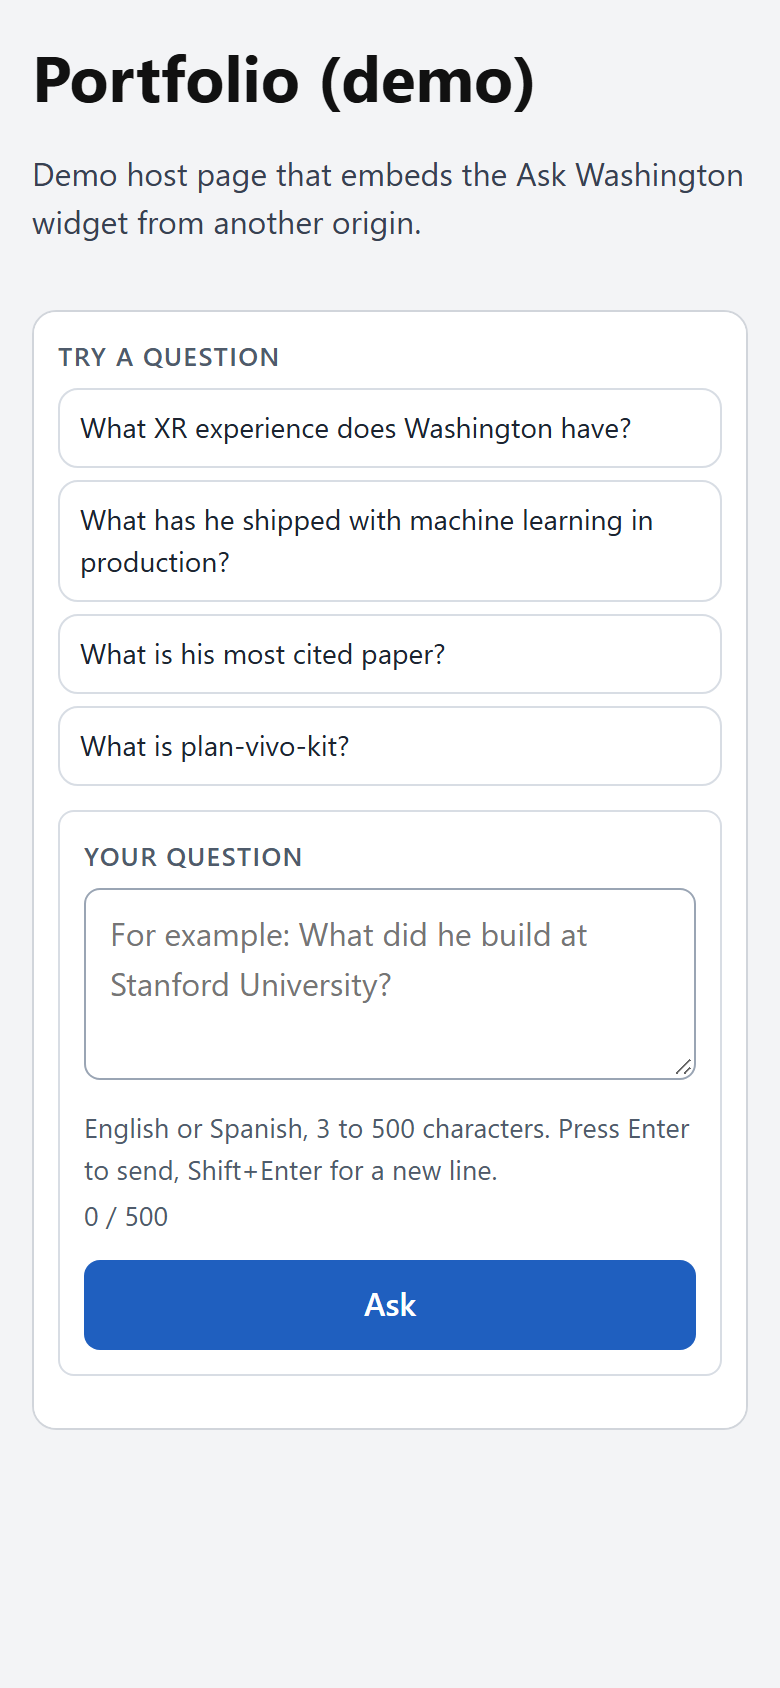
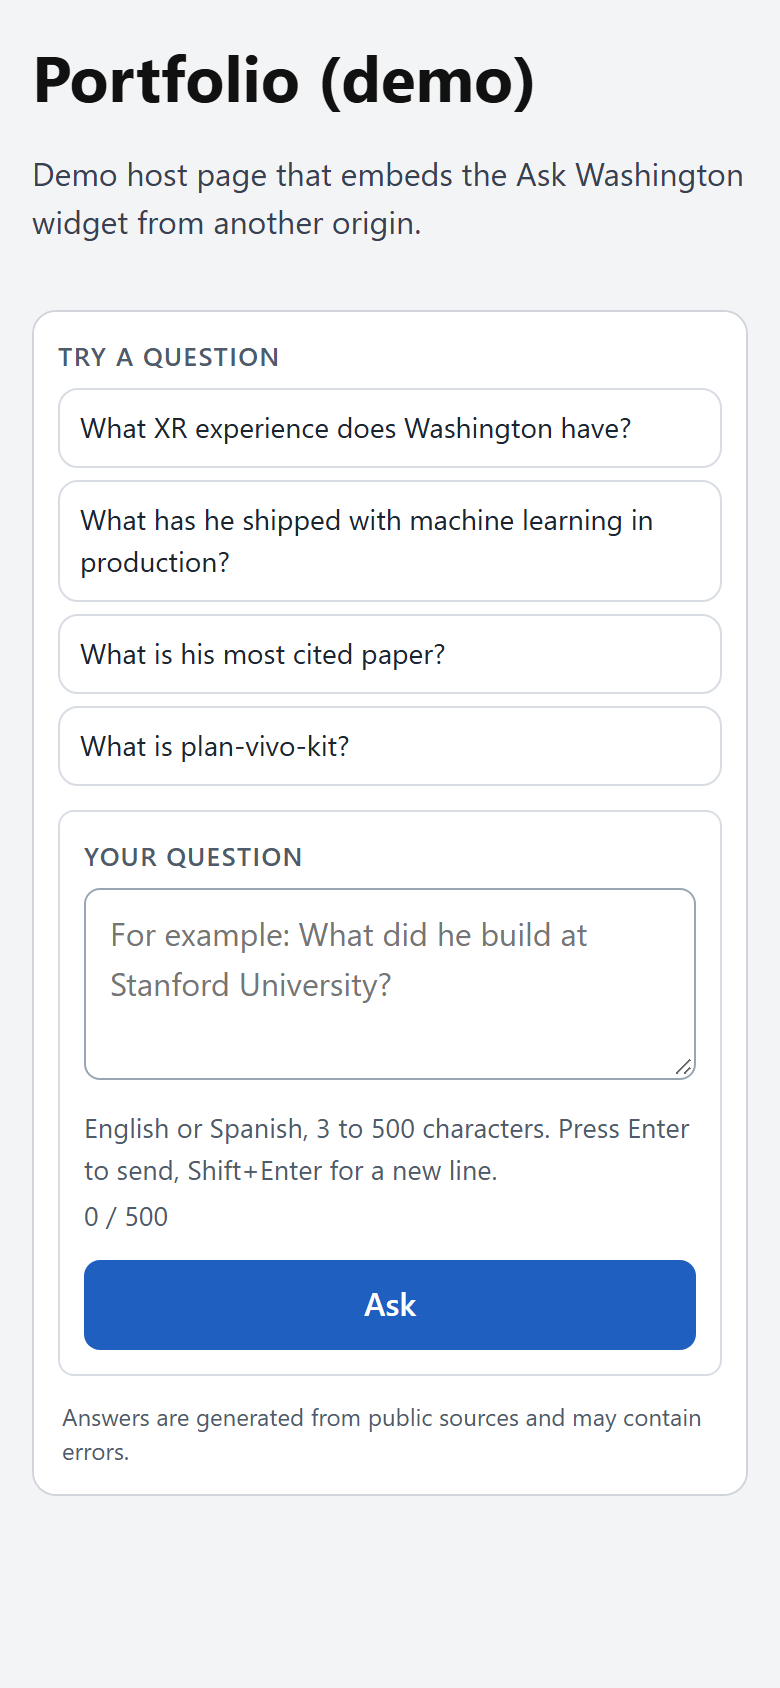
P9: allow the portfolio to embed the widget
- Portfolio origins (washingtonquevedo.com, www, and localhost:4321 for Astro dev)
  as example EMBED_ALLOWED_ORIGINS; deploy.ps1 already passes the value from the
  ignored deploy/.deploy.local to production
- Widget posts its height only to the real parent origin (from its messages,
  location.ancestorOrigins or the referrer), so several allowed origins do not
  cause console errors
- Discreet disclaimer line in widget mode (i18n EN/ES, 6.9:1 contrast)
- Tests: portfolio origins accepted and others rejected; Playwright test with a
  parent page on http://localhost:4321 (language switch, height, no console
  errors) and rejected origins; widget screenshots; README and PROJECT.md

Changed region(s): [[0.0308, 0.8318, 0.8923, 0.8626]]

diff --git a/app/static/app.js b/app/static/app.js
@@ -200,20 +200,40 @@
 
   // ---- embedding: height to the parent, language from the parent ----
 
+  // The parent's origin, when it can be known: from a message it sent, from
+  // location.ancestorOrigins (Chromium, Safari) or from the referrer. Posting only to that
+  // origin avoids "target origin does not match" console errors for the other allowed ones.
+  let parentOrigin = null;
+  function parentTargets() {
+    if (parentOrigin) return [parentOrigin];
+    let origin = null;
+    if (window.location.ancestorOrigins && window.location.ancestorOrigins.length) {
+      origin = window.location.ancestorOrigins[0];
+    } else if (document.referrer) {
+      try {
+        origin = new URL(document.referrer).origin;
+      } catch (e) {
+        origin = null;
+      }
+    }
+    if (origin) return allowedOrigins.includes(origin) ? [origin] : [];
+    return allowedOrigins; // unknown parent: postMessage drops every non-matching origin
+  }
+
   let lastHeight = 0;
   function reportHeight() {
     if (!isEmbed || window.parent === window || allowedOrigins.length === 0) return;
     const height = Math.ceil(document.documentElement.scrollHeight);
     if (height === lastHeight) return;
     lastHeight = height;
-    // Posting to a specific origin is dropped unless the parent really has that origin.
-    allowedOrigins.forEach((origin) => {
+    parentTargets().forEach((origin) => {
       window.parent.postMessage({ type: "ask-washington:height", height: height }, origin);
     });
   }
 
   window.addEventListener("message", (event) => {
     if (!allowedOrigins.includes(event.origin)) return; // ignore anyone else
+    if (event.source === window.parent) parentOrigin = event.origin;
     const data = event.data;
     if (data && data.type === "ask-washington:lang" && LANGS.includes(data.lang)) {
       setLanguage(data.lang);

diff --git a/app/static/styles.css b/app/static/styles.css
@@ -260,3 +260,14 @@ body.embed #answer-block { padding: 12px 14px; }
 @media (max-width: 560px) {
   body.embed .suggestions { grid-template-columns: 1fr; }
 }
+
+/* Widget only: the page footer is hidden, so the disclaimer gets one discreet line.
+   #4f5b6b on #ffffff is about 6.9:1, above the WCAG AA 4.5:1 for small text. */
+.embed-disclaimer { display: none; }
+body.embed .embed-disclaimer {
+  display: block;
+  margin: 10px 2px 0;
+  font-size: 0.75rem;
+  line-height: 1.4;
+  color: var(--muted);
+}

diff --git a/app/static/index.html b/app/static/index.html
@@ -52,6 +52,8 @@
         <p id="meta" class="meta"></p>
       </div>
     </section>
+
+    <p class="embed-disclaimer" data-i18n="disclaimer">{{disclaimer}}</p>
   </main>
 
   <footer class="site-footer">

diff --git a/tests/e2e/test_embed_postmessage.py b/tests/e2e/test_embed_postmessage.py
@@ -1,15 +1,22 @@
-"""End-to-end check of the embed postMessage protocol in a real browser.
+"""End-to-end check of the embed protocol in a real browser.
+
+The app runs with the portfolio's origins in EMBED_ALLOWED_ORIGINS. A minimal parent page
+is served at http://localhost:4321 (the portfolio's dev origin) and must be able to show
+the widget and switch its language; other origins must not.
 
 Needs Playwright, which is not a project dependency. Run it ad hoc with:
 
     uv run --with playwright python -m playwright install chromium   # once
     uv run --with playwright pytest tests/e2e -q
 
-Without Playwright the whole module is skipped.
+Without Playwright the whole module is skipped. The parent page binds 127.0.0.1:4321 and
+Chromium maps "localhost" to 127.0.0.1, so a dev server already listening on [::1]:4321
+(for example `astro preview`) is not disturbed.
 """
 
 import json
 import os
+import socket
 import subprocess
 import sys
 import threading
@@ -26,9 +33,16 @@ sync_api = pytest.importorskip("playwright.sync_api")
 REPO_ROOT = Path(__file__).resolve().parents[2]
 APP_HOST, APP_PORT = "127.0.0.1", 8101
 APP_URL = f"http://{APP_HOST}:{APP_PORT}"
-ALLOWED_PORT, OTHER_PORT = 8102, 8103
-ALLOWED_ORIGIN = f"http://localhost:{ALLOWED_PORT}"
 IFRAME_SRC = f"{APP_URL}/?embed=1&lang=en"
+
+PORTFOLIO_ORIGINS = (
+    "https://washingtonquevedo.com",
+    "https://www.washingtonquevedo.com",
+    "http://localhost:4321",
+)
+DEV_PORT = 4321  # allowed: http://localhost:4321
+SAME_HOST_OTHER_PORT = 8102  # not allowed: http://localhost:8102
+OTHER_HOST_PORT = 8103  # not allowed: http://127.0.0.1:8103
 
 I18N = REPO_ROOT / "app" / "static" / "i18n"
 EN = json.loads((I18N / "en.json").read_text(encoding="utf-8"))
@@ -73,9 +87,18 @@ def _wait_for(url: str, timeout: float = 120.0) -> None:
     raise RuntimeError(f"{url} did not answer within {timeout}s: {last_error}")
 
 
+def _port_free(port: int) -> bool:
+    with socket.socket(socket.AF_INET, socket.SOCK_STREAM) as sock:
+        return sock.connect_ex(("127.0.0.1", port)) != 0
+
+
 @pytest.fixture(scope="module")
 def app_server():
-    env = dict(os.environ, EMBED_ALLOWED_ORIGINS=ALLOWED_ORIGIN, PYTHONUNBUFFERED="1")
+    env = dict(
+        os.environ,
+        EMBED_ALLOWED_ORIGINS=",".join(PORTFOLIO_ORIGINS),
+        PYTHONUNBUFFERED="1",
+    )
     proc = subprocess.Popen(
         [
             sys.executable,
@@ -108,19 +131,24 @@ def app_server():
 
 @pytest.fixture(scope="module")
 def parent_servers(tmp_path_factory):
+    ports = (DEV_PORT, SAME_HOST_OTHER_PORT, OTHER_HOST_PORT)
+    busy = [p for p in ports if not _port_free(p)]
+    if busy:
+        pytest.skip(f"127.0.0.1 ports already in use: {busy}")
+    # The parent page lives in a temporary directory, outside the repository.
     root = tmp_path_factory.mktemp("parents")
     (root / "parent.html").write_text(PARENT_HTML.format(src=IFRAME_SRC), encoding="utf-8")
     handler = partial(_QuietHandler, directory=str(root))
     servers = []
     try:
-        for host, port in (("localhost", ALLOWED_PORT), ("127.0.0.1", OTHER_PORT)):
-            bind = "127.0.0.1" if host == "localhost" else host
-            server = ThreadingHTTPServer((bind, port), handler)
+        for port in ports:
+            server = ThreadingHTTPServer(("127.0.0.1", port), handler)
             threading.Thread(target=server.serve_forever, daemon=True).start()
             servers.append(server)
         yield {
-            "allowed": f"http://localhost:{ALLOWED_PORT}/parent.html",
-            "other": f"http://127.0.0.1:{OTHER_PORT}/parent.html",
+            "dev": f"http://localhost:{DEV_PORT}/parent.html",
+            "same_host_other_port": f"http://localhost:{SAME_HOST_OTHER_PORT}/parent.html",
+            "other_host": f"http://127.0.0.1:{OTHER_HOST_PORT}/parent.html",
         }
     finally:
         for server in servers:
@@ -131,16 +159,20 @@ def parent_servers(tmp_path_factory):
 @pytest.fixture(scope="module")
 def browser():
     with sync_api.sync_playwright() as pw:
-        browser = pw.chromium.launch()
+        # "localhost" -> 127.0.0.1, so http://localhost:4321 reaches the test page.
+        browser = pw.chromium.launch(args=["--host-resolver-rules=MAP localhost 127.0.0.1"])
         try:
             yield browser
         finally:
             browser.close()
 
 
-def _new_page(browser, **context_options):
-    context = browser.new_context(**context_options)
-    return context, context.new_page()
+def _new_page(browser):
+    context = browser.new_context()
+    page = context.new_page()
+    page.console_errors = []
+    page.on("console", lambda msg: msg.type == "error" and page.console_errors.append(msg.text))
+    return context, page
 
 
 @pytest.fixture
@@ -192,29 +224,43 @@ def _height_messages(page):
     )
 
 
-def test_allowed_parent_switches_language_and_gets_height(app_server, parent_servers, page):
-    frame = _open_parent(page, parent_servers["allowed"])
+def test_widget_lists_the_portfolio_origins(app_server):
+    with urllib.request.urlopen(IFRAME_SRC, timeout=5) as response:
+        csp = response.headers["Content-Security-Policy"]
+        html = response.read().decode("utf-8")
+    assert csp.endswith("frame-ancestors 'self' " + " ".join(PORTFOLIO_ORIGINS))
+    assert response.headers.get("X-Frame-Options") is None
+    assert f'content="{" ".join(PORTFOLIO_ORIGINS)}"' in html
+
+
+def test_dev_origin_shows_widget_and_switches_language(app_server, parent_servers, page):
+    frame = _open_parent(page, parent_servers["dev"])
     sync_api.expect(frame.locator("label[for=question]")).to_have_text(EN["question_label"])
+    sync_api.expect(frame.locator(".embed-disclaimer")).to_have_text(EN["disclaimer"])
 
     page.evaluate("window.sendLang('es')")
-
     sync_api.expect(frame.locator("html")).to_have_attribute("lang", "es", timeout=5000)
     sync_api.expect(frame.locator("label[for=question]")).to_have_text(ES["question_label"])
+    sync_api.expect(frame.locator(".embed-disclaimer")).to_have_text(ES["disclaimer"])
+
+    page.evaluate("window.sendLang('en')")
+    sync_api.expect(frame.locator("html")).to_have_attribute("lang", "en", timeout=5000)
 
     page.wait_for_function(
         """() => window.received.some(m => m.data && m.data.type === "ask-washington:height")""",
         timeout=5000,
     )
     heights = _height_messages(page)
-    assert heights, "no ask-washington:height message received"
     assert all(m["origin"] == APP_URL for m in heights)
-    assert any(
-        isinstance(m["data"]["height"], int | float) and m["data"]["height"] > 0 for m in heights
-    )
+    assert any(m["data"]["height"] > 0 for m in heights)
+    # The height goes only to the real parent origin: no "target origin does not match"
+    # errors for the other allowed origins.
+    assert page.console_errors == []
 
 
-def test_other_parent_cannot_frame_the_widget(app_server, parent_servers, page):
-    page.goto(parent_servers["other"])
+@pytest.mark.parametrize("parent", ["same_host_other_port", "other_host"])
+def test_other_origins_cannot_frame_the_widget(app_server, parent_servers, page, parent):
+    page.goto(parent_servers[parent])
     page.wait_for_timeout(1500)
     widget = page.frame_locator("#widget")
     # frame-ancestors blocks the document, so the widget's form never appears.
@@ -222,9 +268,10 @@ def test_other_parent_cannot_frame_the_widget(app_server, parent_servers, page):
     assert _height_messages(page) == []
 
 
-def test_other_parent_messages_are_ignored(app_server, parent_servers, page_without_csp):
+@pytest.mark.parametrize("parent", ["same_host_other_port", "other_host"])
+def test_other_origins_messages_are_ignored(app_server, parent_servers, page_without_csp, parent):
     page = page_without_csp
-    frame = _open_parent(page, parent_servers["other"])
+    frame = _open_parent(page, parent_servers[parent])
 
     page.evaluate("window.sendLang('es')")
     page.wait_for_timeout(1500)

diff --git a/tests/test_i18n.py b/tests/test_i18n.py
@@ -245,3 +245,39 @@ def test_unavailable_message_in_answer_language(client_and_llm):
     response = client.post("/ask", json={"question": "¿Qué es Buscapez?", "lang": "en"})
     assert response.status_code == 502
     assert response.json()["detail"] == i18n.api_message("unavailable", "es")
+
+
+# ------------------------------------------------------- portfolio embedding
+
+PORTFOLIO_ORIGINS = [
+    "https://washingtonquevedo.com",
+    "https://www.washingtonquevedo.com",
+    "http://localhost:4321",
+]
+
+
+def test_portfolio_origins_are_allowed_and_others_are_not(origins):
+    origins.embed_allowed_origins = ",".join(PORTFOLIO_ORIGINS)
+    with TestClient(app) as client:
+        response = client.get("/?embed=1&lang=es")
+    csp = response.headers["content-security-policy"]
+    ancestors = csp.split("frame-ancestors ", 1)[1].split()
+    assert ancestors == ["'self'", *PORTFOLIO_ORIGINS]
+    for other in (
+        "http://washingtonquevedo.com",  # http, not https
+        "https://washingtonquevedo.com.evil.example",
+        "https://evil.example",
+        "http://localhost:4322",
+        "http://127.0.0.1:4321",
+        "*",
+    ):
+        assert other not in ancestors
+    assert "x-frame-options" not in response.headers
+    assert f'content="{" ".join(PORTFOLIO_ORIGINS)}"' in response.text
+
+
+@pytest.mark.parametrize(("lang", "texts"), [("en", EN), ("es", ES)])
+def test_widget_has_a_discreet_disclaimer(lang, texts):
+    with TestClient(app) as client:
+        widget = client.get(f"/?embed=1&lang={lang}").text
+    assert f'<p class="embed-disclaimer" data-i18n="disclaimer">{texts["disclaimer"]}</p>' in widget

diff --git a/PROJECT.md b/PROJECT.md
@@ -63,6 +63,9 @@ Este proyecto es P18 dentro del plan de `C:\xampp\htdocs\enhanced-me`. El seguim
 | CSP con `frame-ancestors` en la app, no en nginx | Depende de `EMBED_ALLOWED_ORIGINS`, que vive en el `.env`. Dos cabeceras CSP se aplican a la vez, así que nginx ya no debe enviar la suya ni `X-Frame-Options: DENY`. |
 | `X-Frame-Options: SAMEORIGIN` solo cuando no hay orígenes permitidos | `X-Frame-Options` no admite listas; con orígenes permitidos manda `frame-ancestors`. |
 | Migración puntual del sitio nginx en `remote-deploy.sh` | Quita solo las dos líneas de cabecera del sitio gestionado por certbot (con respaldo y `nginx -t`), así que el redeploy no necesita `-ForceNginx` ni arriesga las líneas de certbot. |
+| Orígenes del portafolio en `EMBED_ALLOWED_ORIGINS` (incluido `http://localhost:4321`) | El portafolio incrusta el widget en producción (con y sin `www`) y en su servidor de desarrollo de Astro; cualquier otro origen sigue bloqueado. |
+| El widget publica su alto solo hacia el origen real del padre | Con varios orígenes permitidos, publicar hacia todos genera errores de consola en el portafolio por cada origen que no coincide. |
+| Línea de aviso propia en el widget | El widget no muestra el pie; el aviso de posibles errores debe estar visible donde se lee la respuesta. |
 | El sitio nginx se instala solo la primera vez (o con `-ForceNginx`) | Después de certbot el archivo queda gestionado por certbot; sobrescribirlo en cada deploy quitaría el bloque HTTPS. |
 
 ## Plan de los 5 prompts
@@ -177,9 +180,17 @@ Estado: terminado y verificado en local. Detalle completo en `reports/P20_idioma
 - Pruebas: 74 en la suite normal, más una prueba de JS con Playwright (`tests/e2e`, se omite si Playwright no está instalado).
 - Prueba real (4 preguntas): las 4 en el idioma esperado y con citas válidas, USD 0.0018.
 
+### 2026-10-18 - P9 Ask Washington acepta el portafolio
+
+- Orígenes permitidos: `https://washingtonquevedo.com`, `https://www.washingtonquevedo.com` y `http://localhost:4321`, configurados en `deploy/.deploy.local` (ignorado) y pasados al `.env` de producción por `deploy.ps1`; valores de ejemplo en `deploy/.deploy.local.example`.
+- El widget (`?embed=1`) muestra una línea discreta con el aviso de posibles errores (desde los archivos i18n; contraste 6.9:1).
+- El alto se publica solo hacia el origen real del padre (sin errores de consola con varios orígenes permitidos).
+- Pruebas: 77 en la suite normal (nuevas: orígenes del portafolio aceptados y otros rechazados, aviso del widget en los dos idiomas) y 6 en Playwright: una página en `http://localhost:4321` muestra el widget, cambia el idioma y recibe el alto sin errores de consola; `http://localhost:8102` y `http://127.0.0.1:8103` no pueden incrustarlo ni cambiar su idioma.
+- Capturas del widget actualizadas.
+
 ## Próximos pasos
 
-- Washington: redeploy con `deploy.ps1` (sin `-ForceNginx`); cuando exista el dominio del portafolio, agregarlo a `EMBED_ALLOWED_ORIGINS` en `deploy/.deploy.local` y volver a desplegar.
+- Washington: redeploy con `deploy.ps1` (sin `-ForceNginx`; `EMBED_ALLOWED_ORIGINS` ya está en `deploy/.deploy.local`) y verificar el panel del portafolio en https://washingtonquevedo.com.
 - Medir en el servidor el tamaño de la imagen, la RAM real del contenedor y la latencia de `/ask`.
 - Publicar el repo en GitHub cuando el despliegue esté verificado.
 - Volver a correr `scripts/eval.py` tras cada cambio y sumar preguntas reales de `qa_log`.

diff --git a/README.md b/README.md
@@ -333,9 +333,17 @@ Widget embedded in a demo page (English and Spanish):
 
 ## Embedding the widget
 
-Ask Washington has no language switch of its own: it follows the page that contains it. `?embed=1` gives a compact widget without the big header and footer, sized to its content.
+Ask Washington has no language switch of its own: it follows the page that contains it. `?embed=1` gives a compact widget without the big header and footer, sized to its content, with one discreet line at the bottom: "Answers are generated from public sources and may contain errors." (or its Spanish version).
 
-1. Add the embedding site to `EMBED_ALLOWED_ORIGINS` (for the deploy script: `EMBED_ALLOWED_ORIGINS=https://portfolio.example` in `deploy/.deploy.local`). The app then sends `Content-Security-Policy: frame-ancestors 'self' https://portfolio.example` and accepts `postMessage` events only from that origin.
+The portfolio at https://washingtonquevedo.com embeds it in a floating panel. Production allows these origins:
+
+```
+EMBED_ALLOWED_ORIGINS=https://washingtonquevedo.com,https://www.washingtonquevedo.com,http://localhost:4321
+```
+
+(`http://localhost:4321` is the portfolio's Astro dev and preview server.)
+
+1. Add the embedding site to `EMBED_ALLOWED_ORIGINS` (for the deploy script, in `deploy/.deploy.local`). The app then sends `Content-Security-Policy: frame-ancestors 'self'` followed by those origins, and accepts `postMessage` events only from them. Every other origin, including the same host on another port or plain `http`, cannot frame the widget.
 2. Embed it, and send the language whenever the page switches:
 
 ```html
@@ -363,7 +371,9 @@ Ask Washington has no language switch of its own: it follows the page that conta
 </script>
 ```
 
-Start with `lang=` in the `src` matching the current page language (the first render does not wait for a message). Messages from origins that are not in `EMBED_ALLOWED_ORIGINS` are ignored, and the widget posts its height only to allowed origins. The widget does not show the footer, so the embedding page should keep a short note such as "Answers are generated from public sources and may contain errors."
+Start with `lang=` in the `src` matching the current page language (the first render does not wait for a message). Messages from origins that are not in `EMBED_ALLOWED_ORIGINS` are ignored. The widget posts its height only to its actual parent origin (taken from the parent's messages, `location.ancestorOrigins` or the referrer), and only when that origin is allowed, so the browser does not log "target origin does not match" errors for the other allowed origins.
+
+`tests/e2e/test_embed_postmessage.py` checks this in Chromium with the portfolio's origins: a page on `http://localhost:4321` shows the widget, switches its language and receives its height without console errors, while `http://localhost:8102` and `http://127.0.0.1:8103` can neither frame it nor change its language (`uv run --with playwright pytest tests/e2e`).
 
 ## Deployment
 
